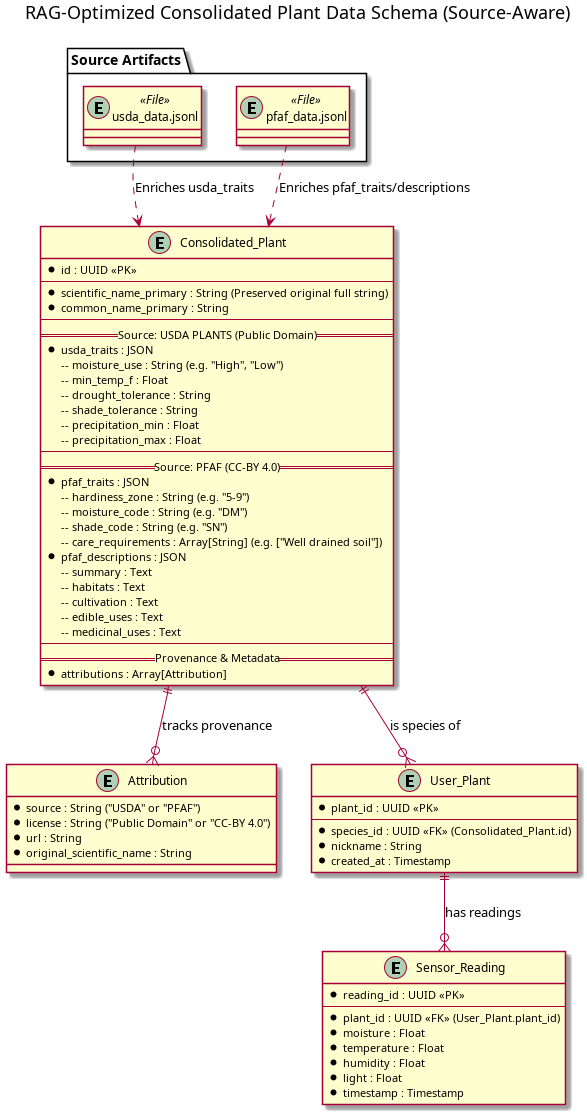
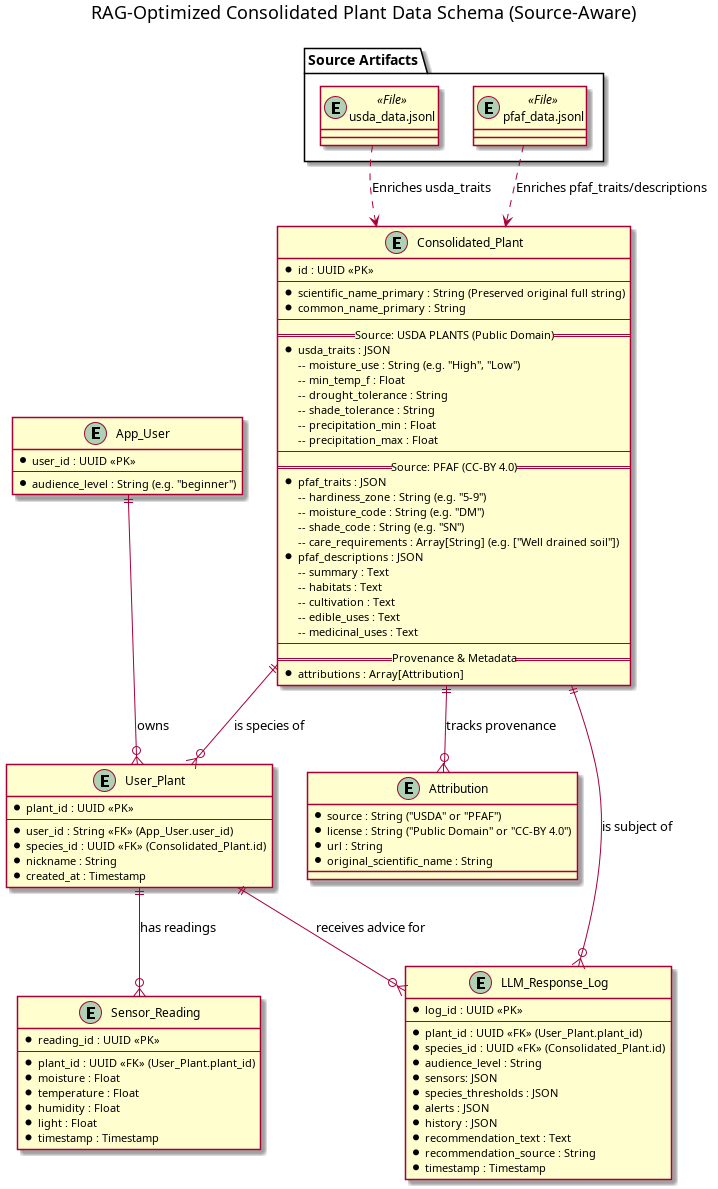
fleshed out stubbed db logic, updated db uml.

diff --git a/Code/db_api.py b/Code/db_api.py
@@ -36,7 +36,7 @@ class PlantDatabase:
 
     # Plant Queries-------------------------------------------------------------------
     # Let users add their own plants
-    def add_plant(self, species_id, nickname=""):
+    def add_plant(self, user_id, species_id, nickname=""):
         plant_id = str(uuid.uuid4())
         created_at = datetime.utcnow().isoformat()
         
@@ -54,7 +54,7 @@ class PlantDatabase:
     def get_all_plants(self, user_id):
         with self._get_connection() as conn:
             cursor = conn.cursor()
-            cursor.execute("SELECT * FROM User_Plant")
+            cursor.execute("SELECT * FROM User_Plant WHERE user_id = ?", (user_id,))
 
             # Fetch all rows... and convert them into a list of dicts
             return [dict(row) for row in cursor.fetchall()]
@@ -64,15 +64,12 @@ class PlantDatabase:
     def get_plant(self, user_id, plant_id):
         with self._get_connection() as conn:
             cursor = conn.cursor()
-            cursor.execute("SELECT * FROM User_Plant WHERE plant_id = ?", 
-                           (plant_id,))
+            cursor.execute("SELECT * FROM User_Plant WHERE user_id = ? AND plant_id = ?", 
+                           (user_id, plant_id))
             row = cursor.fetchone()
 
             # Convert the row into a dict
-            if row:
-                return dict(row)
-            return None
-    
+            return dict(row) if row else None
 
     # Update a users plant
     def update_plant(self, plant_id, nickname):
@@ -149,19 +146,71 @@ class PlantDatabase:
 
     
     # User Queries--------------------------------------------------------------------
-
     def get_audience_level(self, user_id):
-        return "beginner"
+        with self._get_connection() as conn:
+            cursor = conn.cursor()
+            cursor.execute("SELECT audience_level FROM App_User WHERE user_id = ?", (user_id,))
+            row = cursor.fetchone()
+            return row['audience_level'] if row else 'beginner'
 
-    def save_audience_level(self, user_id, audience_level_arg):
-        # continue
-        pass
+    # adds the user if they don't exist, updates their level
+    def save_audience_level(self, user_id, level):
+        with self._get_connection() as conn:
+            cursor = conn.cursor()
+            cursor.execute('''
+                INSERT OR REPLACE INTO App_User (user_id, audience_level)
+                VALUES (?, ?)
+            ''', (user_id, level))
     
     # LLM Logging---------------------------------------------------------------------
     def save_llm_response(self, plant_id, species_id, audience_level, sensors, species_thresholds, alerts, history, recommendation_text, recommendation_source, timestamp):
-        # continue
-        pass
+        log_id = str(uuid.uuid4())
+        if not timestamp:
+            timestamp = datetime.utcnow().isoformat()
+
+        # Serialize to a more structured format for storage
+        sensors_json = json.dumps(sensors)
+        thresholds_json = json.dumps(species_thresholds)
+        alerts_json = json.dumps(alerts)
+        history_json = json.dumps(history)
+
+        # Dump it
+        with self._get_connection() as conn:
+            cursor = conn.cursor()
+            cursor.execute('''
+                           INSERT INTO LLM_Response_Log
+                           (log_id, plant_id, species_id, audience_level, sensors, species_thresholds, alerts, history, recommendation_text, recommendation_source, timestamp)
+                           VALUES (?, ?, ?, ?, ?, ?, ?, ?, ?, ?, ?)
+            ''', (log_id, plant_id, species_id, audience_level, sensors_json, thresholds_json, alerts_json, history_json, recommendation_text, recommendation_source, timestamp))
     
-        def get_llm_responses(self, plant_id, time_start, time_end):
-        # continue
-            pass 
+    def get_llm_responses(self, plant_id, time_start=None, time_end=None):
+        with self._get_connection() as conn:
+            cursor = conn.cursor()
+            query = "SELECT * FROM LLM_Response_Log WHERE plant_id = ?"
+            params = [plant_id]
+
+            # Optional timestamp filtering
+            if time_start:
+                query += " AND timestamp >= ?"
+                params.append(time_start)
+            if time_end:
+                query += " AND timestamp <= ?"
+                params.append(time_end)
+            
+            # run the query
+            query += " ORDER BY timestamp DESC"
+            cursor.execute(query, tuple(params))
+            results = []
+            
+            # filter the results
+            for row in cursor.fetchall():
+                d = dict(row)
+                d['sensors'] = json.loads(d['sensors'])
+                d['species_thresholds'] = json.loads(d['species_thresholds'])
+                d['alerts'] = json.loads(d['alerts'])
+                d['history'] = json.loads(d['history'])
+                results.append(d)
+            
+            # pass them back
+            return results
+                

diff --git a/db/src/build_db.py b/db/src/build_db.py
@@ -21,19 +21,28 @@ def build_database():
         )
     ''')
     
+    # Users
+    cursor.execute('''
+        CREATE TABLE IF NOT EXISTS App_User (
+            user_id TEXT PRIMARY KEY,
+            audience_level TEXT DEFAULT 'beginner'
+        )
+    ''')
+    
     # User Plants
     cursor.execute('''
         CREATE TABLE IF NOT EXISTS User_Plant(
         plant_id TEXT PRIMARY KEY,
+        user_id TEXT,
         species_id TEXT,
         nickname TEXT,
         created_at DATETIME DEFAULT CURRENT_TIMESTAMP,
+        FOREIGN KEY (user_id) REFERENCES App_User(user_id),
         FOREIGN KEY(species_id) REFERENCES Consolidated_Plant(id)
         )
     ''')
 
     # Sensor Readings
-
     cursor.execute('''
         CREATE TABLE IF NOT EXISTS Sensor_Reading(
             reading_id TEXT PRIMARY KEY,
@@ -46,6 +55,25 @@ def build_database():
             FOREIGN KEY(plant_id) REFERENCES User_Plant(plant_id)
             )
         ''')
+    
+    # LLM Logging
+    cursor.execute('''
+        CREATE TABLE IF NOT EXISTS LLM_Response_Log (
+            log_id TEXT PRIMARY KEY,
+            plant_id TEXT,
+            species_id TEXT,
+            audience_level TEXT,
+            sensors TEXT,
+            species_thresholds TEXT,
+            alerts TEXT,
+            history TEXT,
+            recommendation_text TEXT,
+            recommendation_source TEXT,
+            timestamp DATETIME,
+            FOREIGN KEY(plant_id) REFERENCES User_Plant(plant_id),
+            FOREIGN KEY(species_id) REFERENCES Consolidated_Plant(id) 
+        ) 
+    ''')
 
     conn.commit()
 
